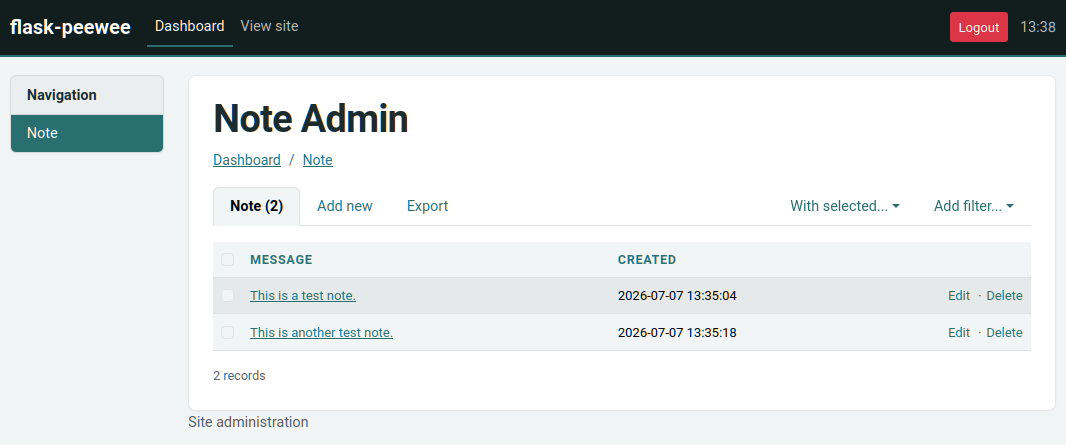
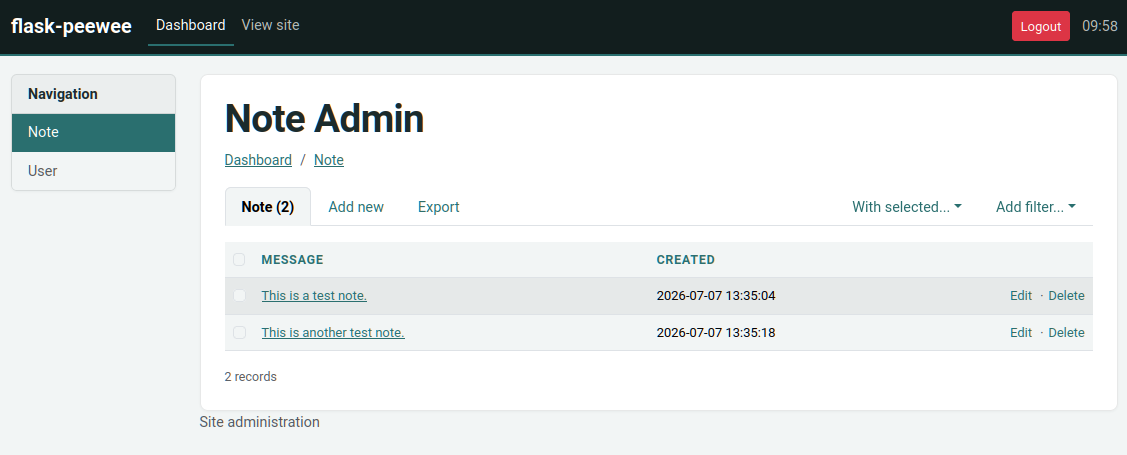
Couple tweaks to getting started

diff --git a/docs/getting-started.rst b/docs/getting-started.rst
@@ -259,6 +259,14 @@ Let's go ahead and add the ``auth.User`` model to the admin as well:
     auth.register_admin(admin)
     admin.setup()
 
+The admin supports themes. Here is how to use the *crux* theme, for example:
+
+.. code-block:: python
+
+    admin = Admin(app, auth, theme='crux')
+
+.. image:: fp-crux.png
+
 
 Exposing content using a REST API
 ---------------------------------